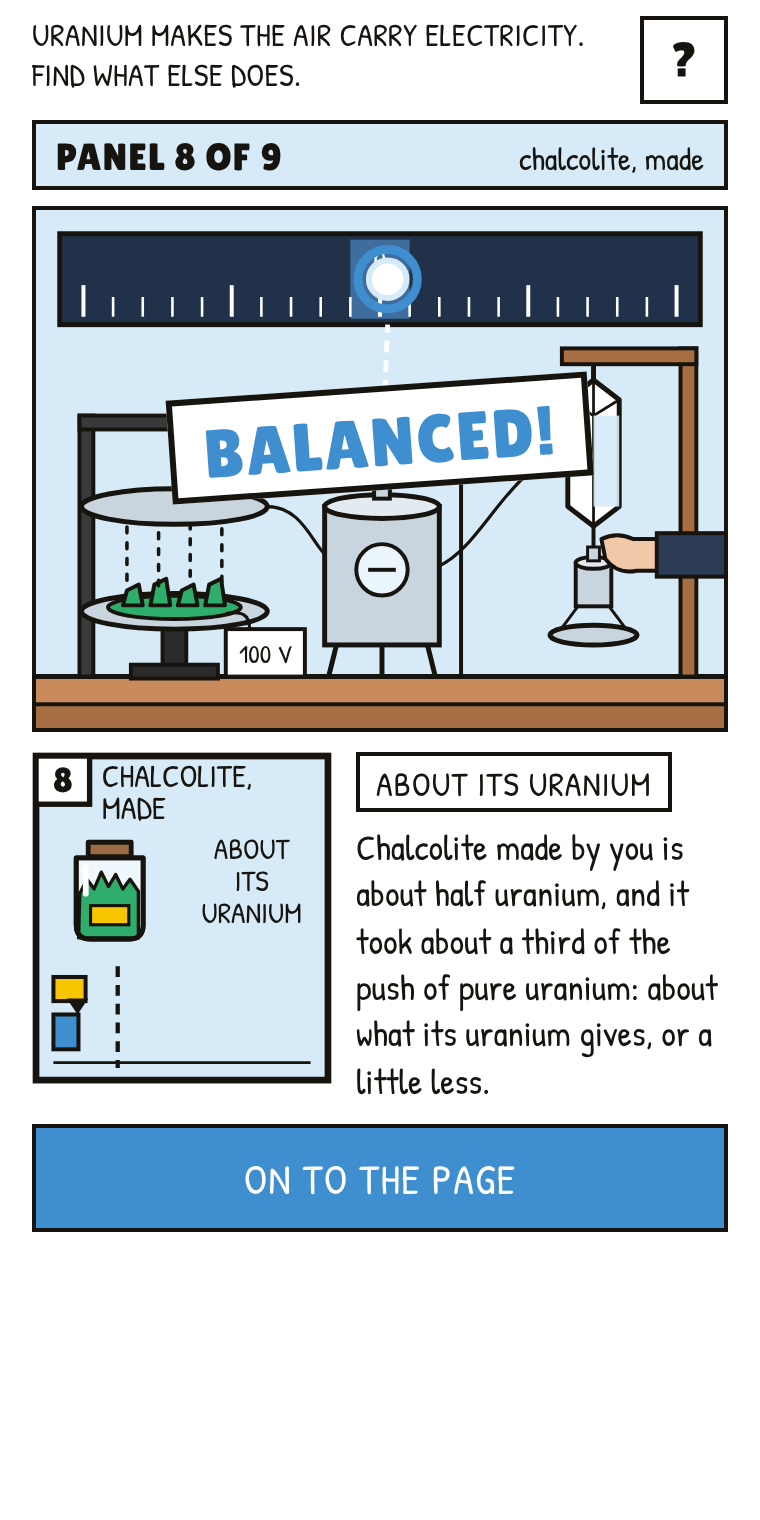
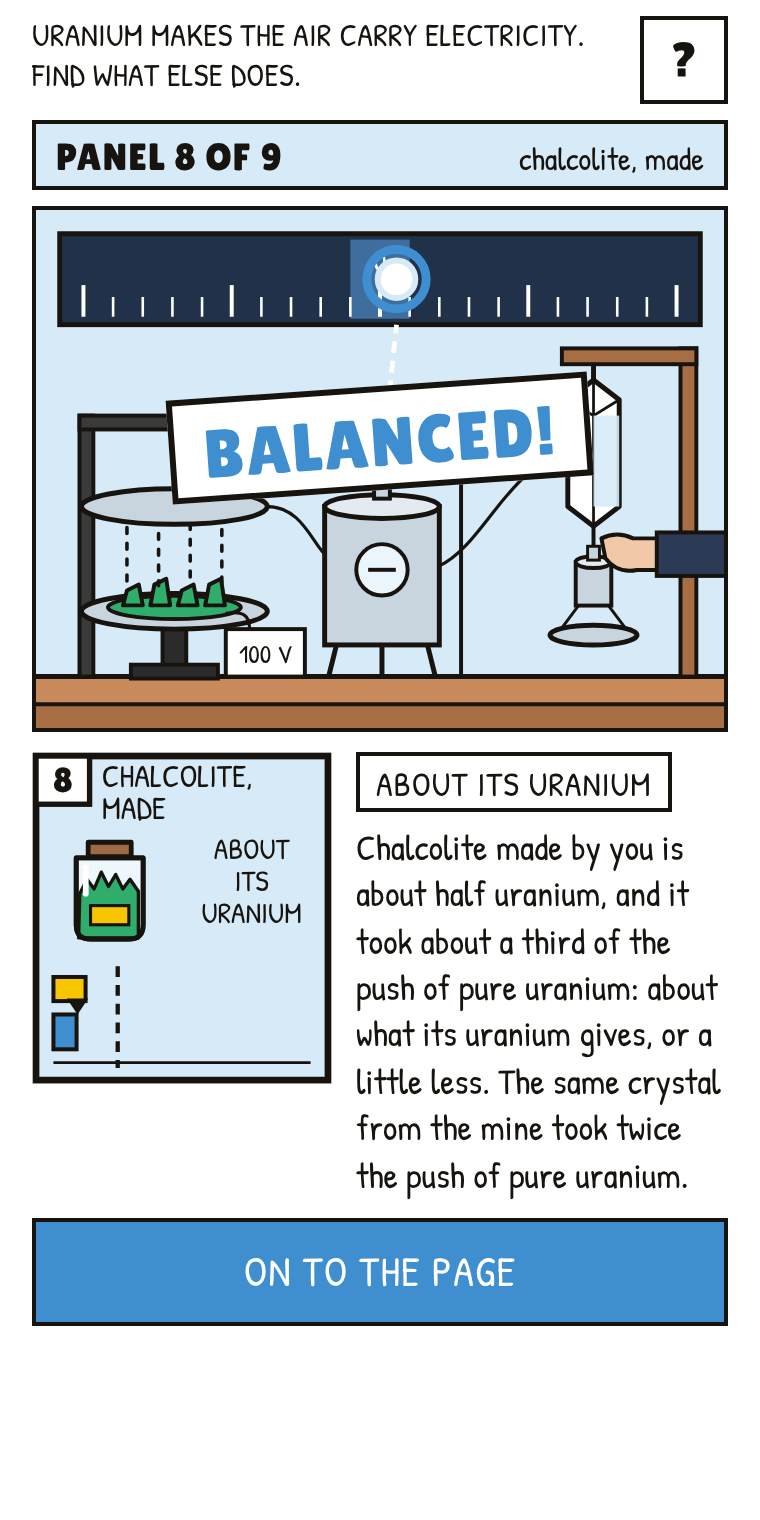
Curie's Quartz: the second chalcolite names the first one's push on the bench
Claude-Session: https://claude.ai/code/session_018niUhypWLZCCW3NkP4FEec

diff --git a/curie/curies-quartz.html b/curie/curies-quartz.html
@@ -465,6 +465,9 @@ input[type=range]:disabled::-webkit-slider-thumb{background:#bcd3e6}
     const s = sub(st.id), x = st.reading, k = kind(s);
     const p = { n: g.panels.length + 1, id: s.id, name: s.name, short: s.short, look: s.look, reading: x, paper: strength(s), u: s.u,
       kind: k, badge: BADGE[k], words: times(x), caption: caption(s, x, k), seconds: st.t };
+    // the two chalcolites: whichever comes second says what the first one took, so the comparison is made on the bench
+    const twin = { chalc: 'chalcArt', chalcArt: 'chalc' }[s.id], other = twin && g.panels.find(q => q.id === twin);
+    if (other) p.caption += s.id === 'chalcArt' ? ' The same crystal from the mine took ' + other.words + '.' : ' Your copy, made from pure chemicals, took ' + other.words + '.';
     g.panels.push(p); g.tested[s.id] = true; return p;
   }
   const low = s => s.charAt(0).toLowerCase() + s.slice(1);

diff --git a/curie/mechanism.js b/curie/mechanism.js
@@ -213,6 +213,9 @@
     const s = sub(st.id), x = st.reading, k = kind(s);
     const p = { n: g.panels.length + 1, id: s.id, name: s.name, short: s.short, look: s.look, reading: x, paper: strength(s), u: s.u,
       kind: k, badge: BADGE[k], words: times(x), caption: caption(s, x, k), seconds: st.t };
+    // the two chalcolites: whichever comes second says what the first one took, so the comparison is made on the bench
+    const twin = { chalc: 'chalcArt', chalcArt: 'chalc' }[s.id], other = twin && g.panels.find(q => q.id === twin);
+    if (other) p.caption += s.id === 'chalcArt' ? ' The same crystal from the mine took ' + other.words + '.' : ' Your copy, made from pure chemicals, took ' + other.words + '.';
     g.panels.push(p); g.tested[s.id] = true; return p;
   }
   const low = s => s.charAt(0).toLowerCase() + s.slice(1);

diff --git a/curie/memo.md b/curie/memo.md
@@ -181,3 +181,4 @@ The spread is wide: only a player who thinks about what each test answers gets b
 6. Full session (`session-test.js`, `session-log.txt`): two albums in headless Chromium at 380 × 760; the first balanced with a real mouse drag on the slider, How to play opened mid-measurement (the bench's clock stops while away and the slider is kept), the paper's path to the last page, About and back; the second never opening the Muséum's drawer, whose verdict says where the rock was. No errors, no horizontal scroll. Balancing took two to ten seconds per plate for the scripted thumb; the five-to-six-minute length is an estimate until a person has played it.
 
 **What changed from the memo above.** Long explanatory text on the bench is set in mixed case for reading on a phone; capitals are kept for buttons, bands, badges and panel labels. The jars carry a label, yellow when the thing holds uranium (the visual rule, extended to the shelf).
+7. After the first push: when both chalcolites are on the page, whichever is measured second now says on the bench what the first one took ("The same crystal from the mine took twice the push of pure uranium"), so the comparison lands at the moment and not only on the last page. Calibration 67/67 and the browser session rerun. Noether's Press was renamed Noether's Ball on main while this game was built; the precedent table above keeps the name it had.
